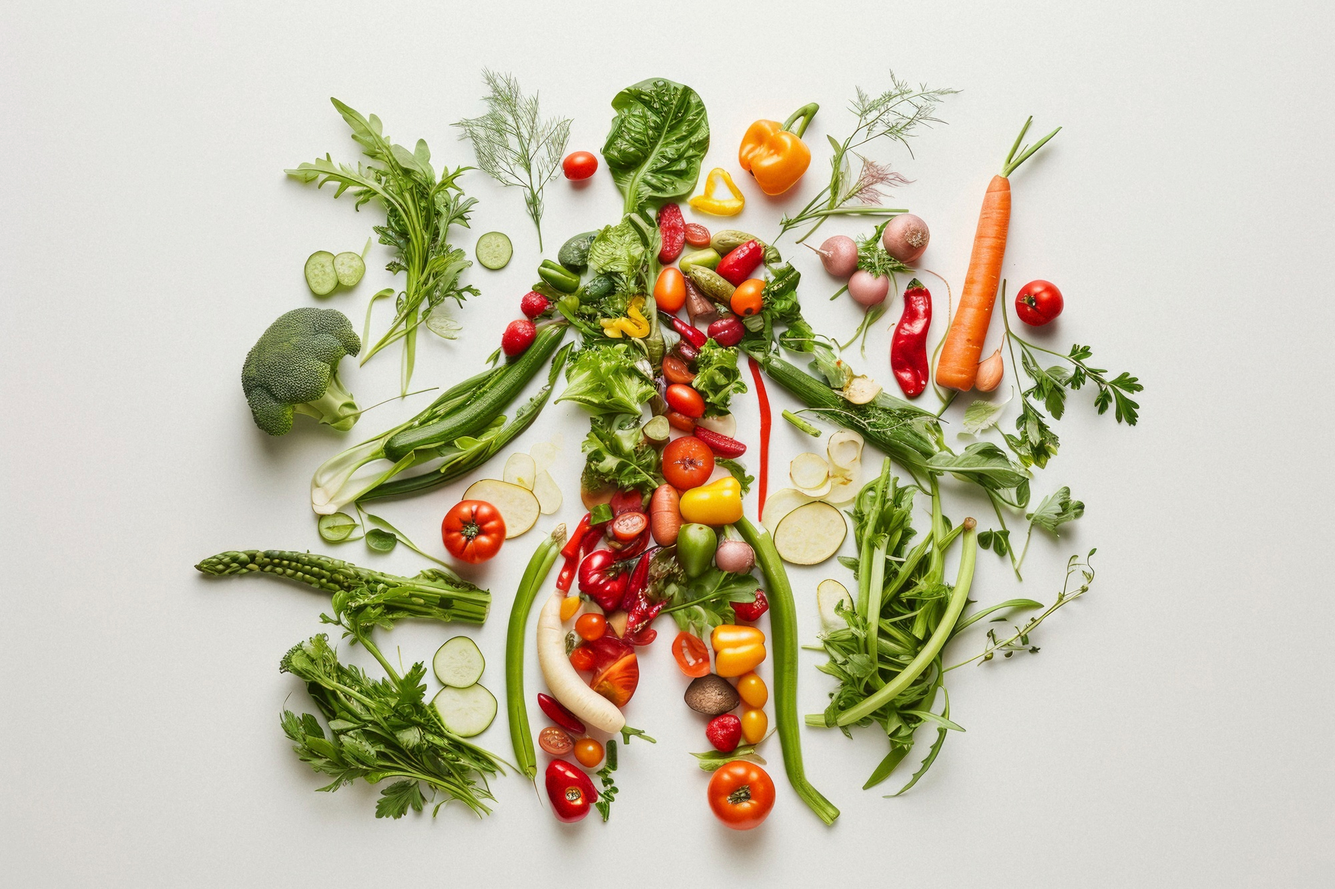
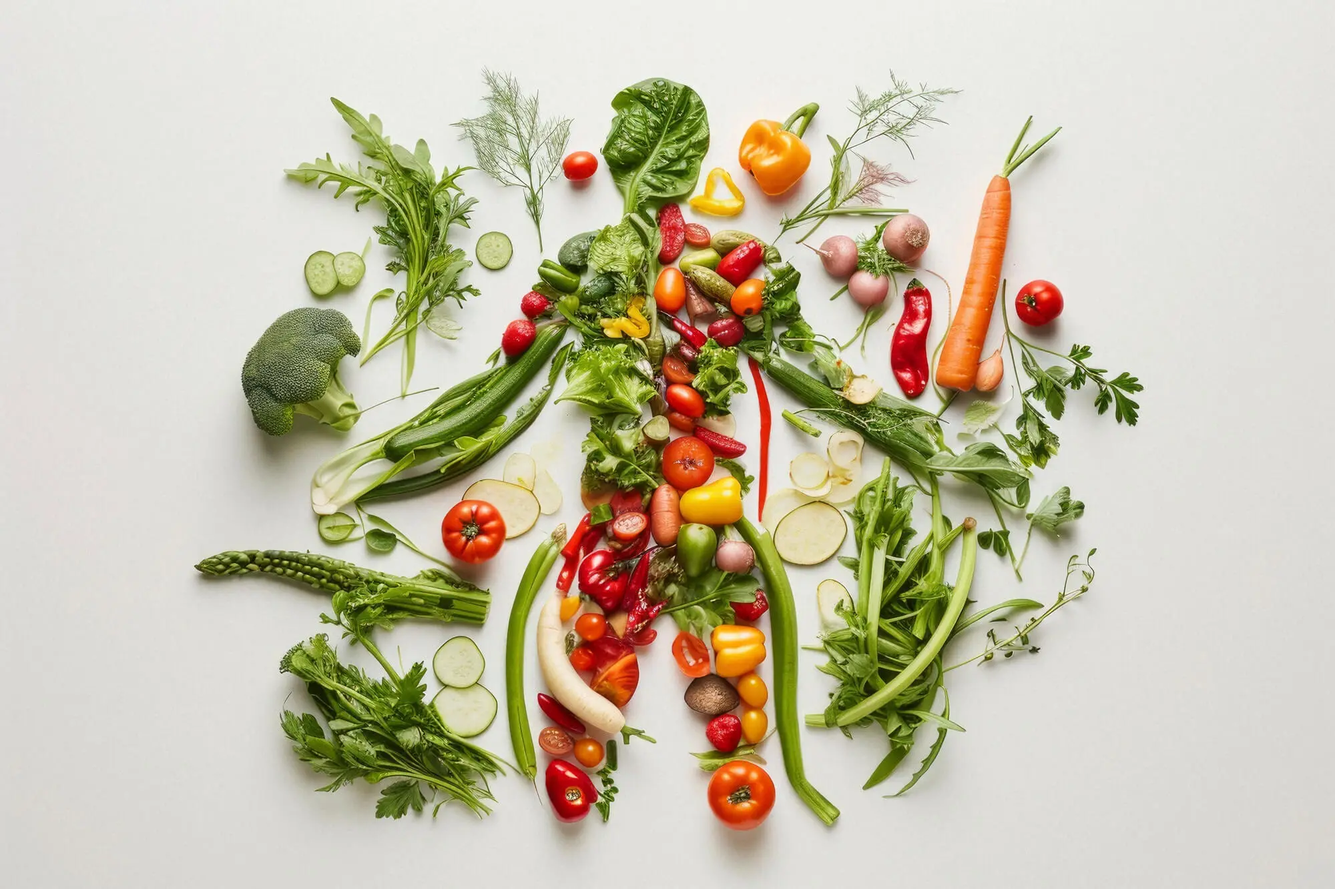
docs: Create testing item list, upload smaller size images

diff --git a/README.md b/README.md
@@ -259,17 +259,36 @@ For future growth, an online session feature might be good idea for meeting peop
 **Testing for links and Form**
 | Test |Outcome  |
 |--|--|
-|All links on Navigation lead to their correct pages| |
-|Contact us button leads to contact form on contact us page| 
-|Footer social links all lead to their respective social media sites ||
-|Contact form submits when all criteria is filled correctly|   |
-|User prevented from submitting form without correct elements| |
-|Form Validation presents when incorrect input type is entered ||
+|All links on Navigation lead to their correct pages| OK |
+|More information >> leads to the each target pages| OK |
+|Footer social links all lead to their respective social media sites | OK |
+|Contact form submits when all criteria is filled correctly| OK |
+|User prevented from submitting form without correct elements| OK |
+|Form Validation presents when incorrect input type is entered | OK |
 
 **Testing for responsiveness**
-| Test |Outcome  |
-|--|--|
-|Home page, , 
+| OS | Browser | Test | Outcome |
+|--|--|--|--|
+| Windows | Chrome | All three pages display correctly on screens larger than 1024px | OK |
+|  |  | All three pages display correctly on screens larger than 768px | OK |
+|  |  | All three pages display correctly on screens larger than 320px | OK |
+|  |  | All three pages display correctly on screens smaller than 320px | OK |
+|  | Edge | All three pages display correctly on screens larger than 1024px | OK |
+|  |  | All three pages display correctly on screens larger than 768px | OK |
+|  |  | All three pages display correctly on screens smaller than 768px | OK |
+|  | Firefox | All three pages display correctly on screens larger than 1024px | OK |
+|  |  | All three pages display correctly on screens larger than 768px | OK |
+|  |  | All three pages display correctly on screens smaller than 768px | OK |
+| Mac | Chrome | All three pages display correctly on screens larger than 1024px | OK |
+|  |  | All three pages display correctly on screens larger than 768px | OK |
+|  |  | All three pages display correctly on screens smaller than 768px | OK |
+|  | Safari | All three pages display correctly on screens larger than 1024px | OK |
+|  |  | All three pages display correctly on screens larger than 768px | OK |
+|  |  | All three pages display correctly on screens smaller than 768px | OK |
+|  | Firefox | All three pages display correctly on screens larger than 1024px | OK |
+|  |  | All three pages display correctly on screens larger than 768px | OK |
+|  |  | All three pages display correctly on screens smaller than 768px | OK |
+
 
 ## W3 Validator
 ![W3 validator index.html](assets/images/readme-img/test-w3validator-index.png "W3 validator index.html")
